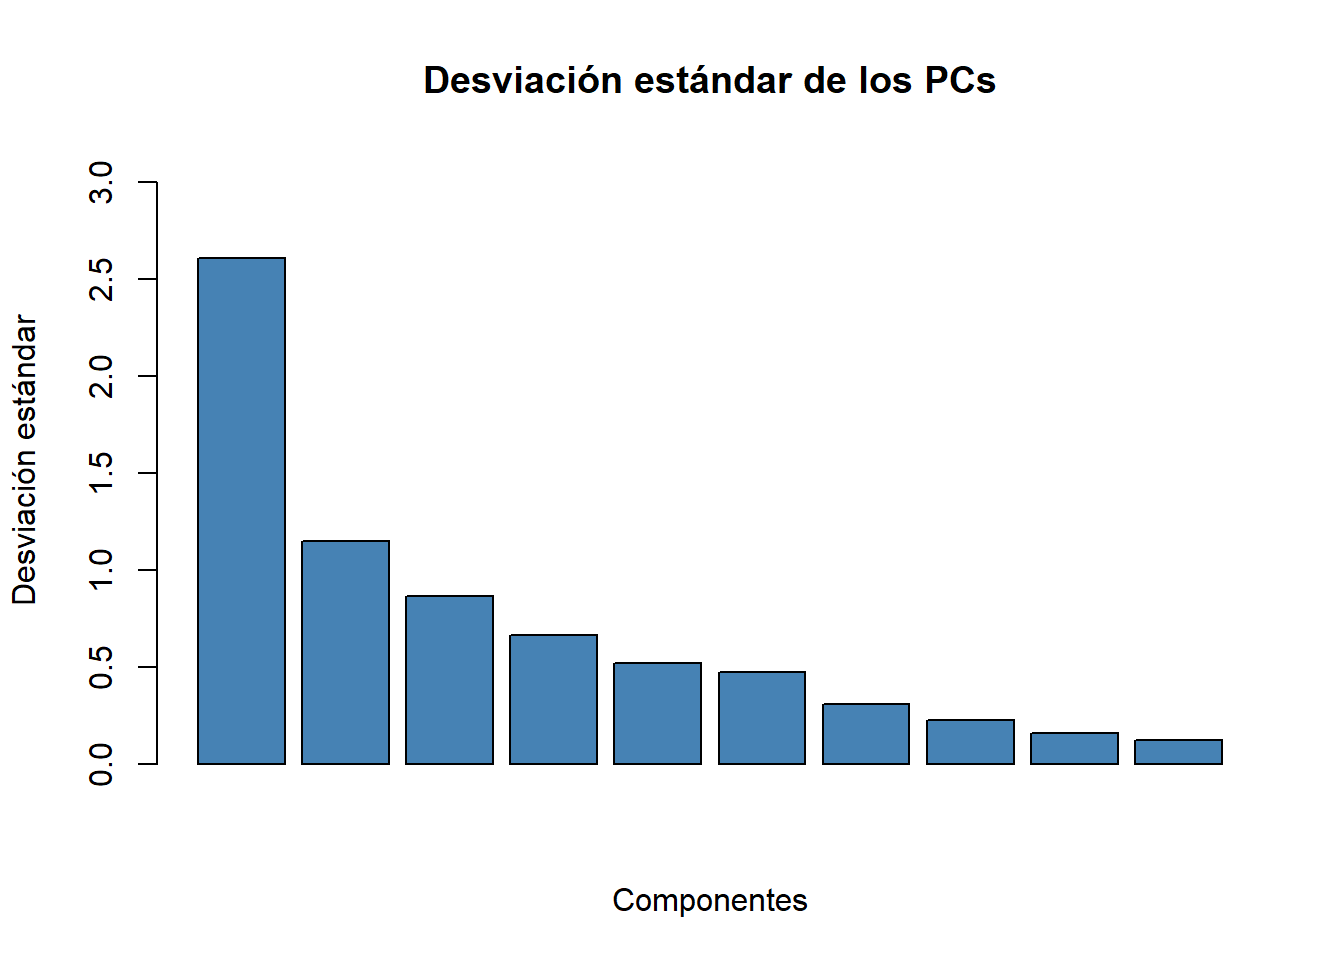
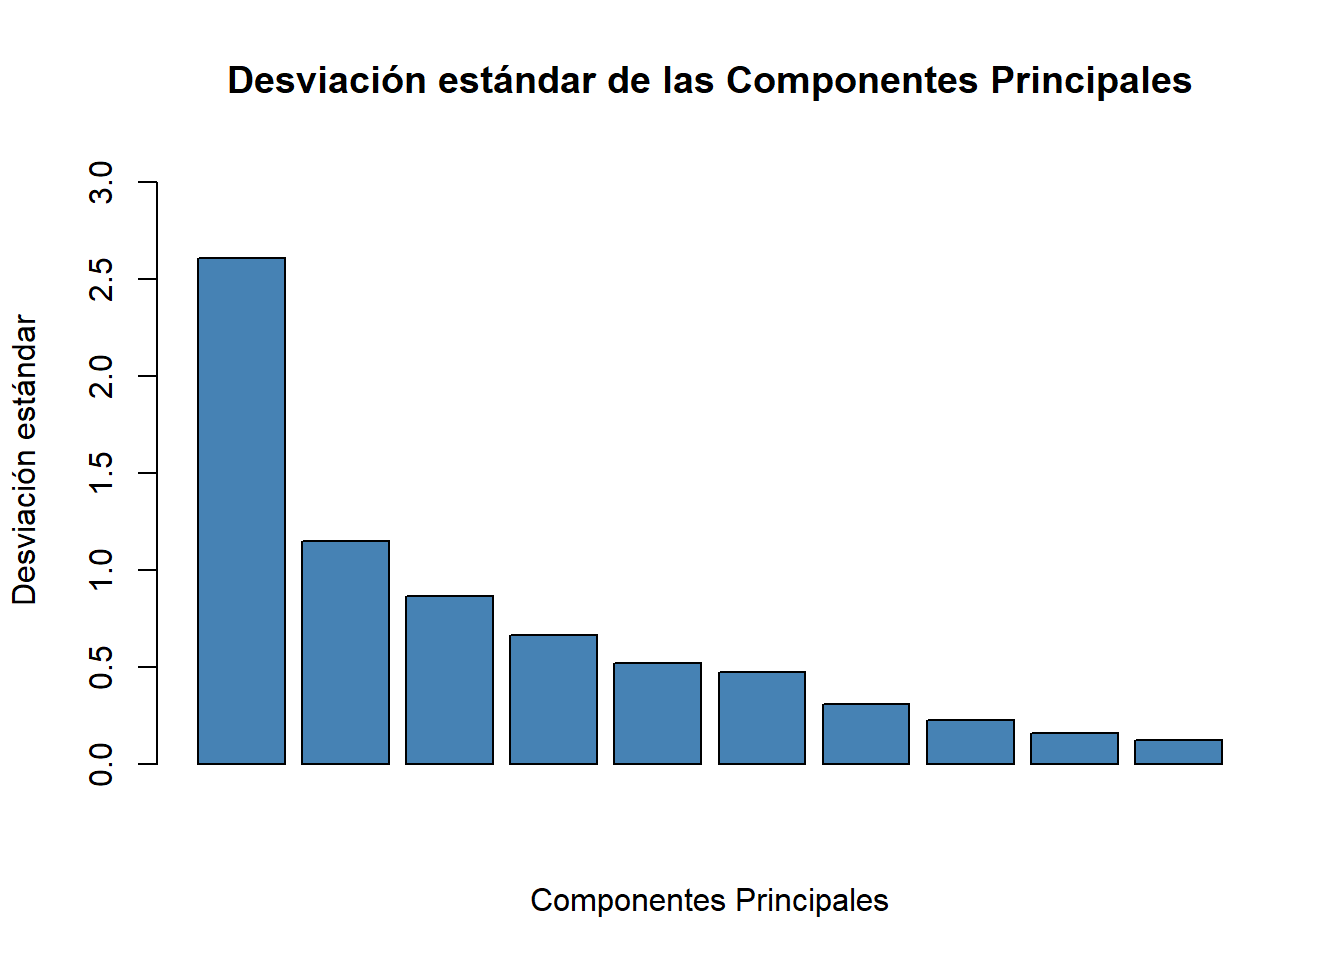
conclusion

Changed region(s): [[0.1562, 0.0625, 0.9062, 0.125], [0.4062, 0.9062, 0.6562, 0.9688]]

diff --git a/index.html b/index.html
@@ -92,15 +92,16 @@ pre > code.sourceCode > span > a:first-child::before { text-decoration: underlin
   <li><a href="#variables-cualitativas" id="toc-variables-cualitativas" class="nav-link" data-scroll-target="#variables-cualitativas">Variables cualitativas</a></li>
   <li><a href="#zona" id="toc-zona" class="nav-link" data-scroll-target="#zona">Zona</a></li>
   </ul></li>
-  <li><a href="#análisis-descriptivo." id="toc-análisis-descriptivo." class="nav-link" data-scroll-target="#análisis-descriptivo.">Análisis Descriptivo.</a>
+  <li><a href="#análisis-descriptivo" id="toc-análisis-descriptivo" class="nav-link" data-scroll-target="#análisis-descriptivo"><strong>Análisis Descriptivo</strong></a>
   <ul class="collapse">
-  <li><a href="#tabla." id="toc-tabla." class="nav-link" data-scroll-target="#tabla.">Tabla.</a></li>
-  <li><a href="#matriz-de-dispersión." id="toc-matriz-de-dispersión." class="nav-link" data-scroll-target="#matriz-de-dispersión.">Matriz de Dispersión.</a></li>
-  <li><a href="#boxplots." id="toc-boxplots." class="nav-link" data-scroll-target="#boxplots.">Boxplots.</a></li>
+  <li><a href="#tabla-descriptiva-sobre-las-variables-numéricas" id="toc-tabla-descriptiva-sobre-las-variables-numéricas" class="nav-link" data-scroll-target="#tabla-descriptiva-sobre-las-variables-numéricas">Tabla descriptiva sobre las variables numéricas</a></li>
+  <li><a href="#correlación-entre-variables-distribuciones-y-gráficos-de-dispersión" id="toc-correlación-entre-variables-distribuciones-y-gráficos-de-dispersión" class="nav-link" data-scroll-target="#correlación-entre-variables-distribuciones-y-gráficos-de-dispersión">Correlación entre variables, distribuciones y gráficos de dispersión</a></li>
+  <li><a href="#boxplots-comparativos-entre-las-variables-del-conjunto-de-datos" id="toc-boxplots-comparativos-entre-las-variables-del-conjunto-de-datos" class="nav-link" data-scroll-target="#boxplots-comparativos-entre-las-variables-del-conjunto-de-datos">Boxplots comparativos entre las variables del conjunto de datos</a></li>
   </ul></li>
-  <li><a href="#proporción-de-varianza-explicada-por-cada-pc." id="toc-proporción-de-varianza-explicada-por-cada-pc." class="nav-link" data-scroll-target="#proporción-de-varianza-explicada-por-cada-pc.">Proporción de varianza explicada por cada PC.</a>
+  <li><a href="#análisis-de-componentes-principales-pca" id="toc-análisis-de-componentes-principales-pca" class="nav-link" data-scroll-target="#análisis-de-componentes-principales-pca"><strong>Análisis de Componentes Principales (PCA)</strong></a>
   <ul class="collapse">
-  <li><a href="#matriz-de-cargas." id="toc-matriz-de-cargas." class="nav-link" data-scroll-target="#matriz-de-cargas.">Matriz de Cargas.</a></li>
+  <li><a href="#proporción-de-varianza-explicada-por-cada-componente-principal" id="toc-proporción-de-varianza-explicada-por-cada-componente-principal" class="nav-link" data-scroll-target="#proporción-de-varianza-explicada-por-cada-componente-principal">Proporción de varianza explicada por cada Componente Principal</a></li>
+  <li><a href="#matriz-de-cargas" id="toc-matriz-de-cargas" class="nav-link" data-scroll-target="#matriz-de-cargas">Matriz de Cargas</a></li>
   <li><a href="#datos-transformados.-primeros-registros." id="toc-datos-transformados.-primeros-registros." class="nav-link" data-scroll-target="#datos-transformados.-primeros-registros.">Datos Transformados. Primeros Registros.</a></li>
   <li><a href="#biplot." id="toc-biplot." class="nav-link" data-scroll-target="#biplot.">Biplot.</a></li>
   <li><a href="#gráfico-de-variables." id="toc-gráfico-de-variables." class="nav-link" data-scroll-target="#gráfico-de-variables.">Gráfico de Variables.</a></li>
@@ -164,54 +165,54 @@ pre > code.sourceCode > span > a:first-child::before { text-decoration: underlin
 
 <section id="introducción" class="level2">
 <h2 class="anchored" data-anchor-id="introducción">Introducción</h2>
-<p>Trabajo práctico entregable para la materia “Introducción a Data Mining”.</p>
+<p>Trabajo práctico grupal para la materia “Introducción a Data Mining”: Análisis de Componentes Principales (PCA)</p>
 </section>
 <section id="descripción-del-dataset." class="level2">
 <h2 class="anchored" data-anchor-id="descripción-del-dataset.">Descripción del dataset.</h2>
-<p>Los datos del archivo corresponden a 24 accesiones de quinoa nativa del Noroeste Argentino caracterizadas a través de 10 variables cuantitativas y 8 variables cualitativas.</p>
+<p>Los datos del archivo “quinoa.txt” corresponden a 24 accesiones de quinoa nativa del Noroeste Argentino caracterizadas a través de 10 variables cuantitativas y 8 variables cualitativas.</p>
 <section id="variables-cuantitativas" class="level3">
 <h3 class="anchored" data-anchor-id="variables-cuantitativas">Variables cuantitativas</h3>
 <ol type="1">
-<li><p>DIAMTAL Diámetro del tallo (mm)</p></li>
-<li><p>ALTPL Altura de planta (cm)</p></li>
-<li><p>LONGHO Longitud de la hoja (mm)</p></li>
-<li><p>ANCHOHO Ancho de la hoja (mm)</p></li>
-<li><p>LONGPEC Longitud del peciolo (mm)</p></li>
-<li><p>LONGPAN Longitud de la panoja (cm)</p></li>
-<li><p>LONGGLO Longitud del glomérulo (mm)</p></li>
-<li><p>DSBF Días desde siembra a botón floral (días)</p></li>
-<li><p>DSFL Días desde siembra a floración (días)</p></li>
-<li><p>DSMF Días desde siembra a madurez fisiológica (días)</p></li>
+<li><p><strong>DIAMTAL</strong>: Diámetro del tallo (mm)</p></li>
+<li><p><strong>ALTPL</strong>: Altura de la planta (cm)</p></li>
+<li><p><strong>LONGHO</strong>: Longitud de la hoja (mm)</p></li>
+<li><p><strong>ANCHOHO</strong>: Ancho de la hoja (mm)</p></li>
+<li><p><strong>LONGPEC</strong>: Longitud del peciolo (mm)</p></li>
+<li><p><strong>LONGPAN</strong>: Longitud de la panoja (cm)</p></li>
+<li><p><strong>LONGGLO</strong>: Longitud del glomérulo (mm)</p></li>
+<li><p><strong>DSBF</strong>: Días desde la siembra hasta el botón floral (días)</p></li>
+<li><p><strong>DSFL</strong>: Días desde la siembra hasta la floración (días)</p></li>
+<li><p><strong>DSMF</strong>: Días desde la siembra hasta la madurez fisiológica (días)</p></li>
 </ol>
 </section>
 <section id="variables-cualitativas" class="level3">
 <h3 class="anchored" data-anchor-id="variables-cualitativas">Variables cualitativas</h3>
 <ol type="1">
-<li><p>AX Presencia de axilas: Si – No</p></li>
-<li><p>CEstrias Color de las estrías: amarilla, rojas, purpuras, no (no tiene estrías)</p></li>
-<li><p>CTallo Color del tallo: rojo, púrpura, verde</p></li>
-<li><p>PoRAMA Presencia de ramas Si – No</p></li>
-<li><p>CFA Color de panoja a fin de antesis: Blanca – Púrpura – Gris</p></li>
-<li><p>Cco Color de la panoja a la cosecha: amarilla, blanca, púrpura, marrón</p></li>
-<li><p>TP Tipo de panoja: Diferenciada y terminal – No diferenciada</p></li>
-<li><p>FP Forma de panoja: Glomerulada – Amarantiforme</p></li>
+<li><p><strong>AX</strong>: Presencia de axilas (Si – No)</p></li>
+<li><p><strong>CEstrias</strong>: Color de las estrías (Amarillas – Rojas – Púrpuras – No (no tiene estrías))</p></li>
+<li><p><strong>CTallo</strong>: Color del tallo (Rojo – Púrpura – Verde)</p></li>
+<li><p><strong>PoRAMA</strong>: Presencia de ramas (Si – No)</p></li>
+<li><p><strong>CFA</strong>: Color de la panoja a fin de antesis (Blanca – Púrpura – Gris)</p></li>
+<li><p><strong>Cco</strong>: Color de la panoja a la cosecha (Amarilla – Blanca – Púrpura – Marrón)</p></li>
+<li><p><strong>TP</strong>: Tipo de panoja (Diferenciada y terminal – No diferenciada)</p></li>
+<li><p><strong>FP</strong>: Forma de la panoja (Glomerulada – Amarantiforme)</p></li>
 </ol>
 </section>
 <section id="zona" class="level3">
 <h3 class="anchored" data-anchor-id="zona">Zona</h3>
-<p>Agregamos una columna al dataset llamada “zona” con el dato de origen de los individuos. Los valores pueden ser:</p>
+<p>Se decidió agregar una columna a la base de datos llamada “zona”, para determinar en qué zona se desarrolla cada una de las plantas. Los datos fueron obtenidos de la columna “poblaciones”.</p>
 <ul>
-<li><p>AL Altiplano</p></li>
-<li><p>VA Valles de altura</p></li>
-<li><p>VH Valles húmedos</p></li>
-<li><p>VS Valles secos</p></li>
+<li><p>Altiplano (AL)</p></li>
+<li><p>Valles de Altura (VA)</p></li>
+<li><p>Valles Húmedos (VH)</p></li>
+<li><p>Valles secos (VS)</p></li>
 </ul>
 </section>
 </section>
-<section id="análisis-descriptivo." class="level2">
-<h2 class="anchored" data-anchor-id="análisis-descriptivo.">Análisis Descriptivo.</h2>
-<section id="tabla." class="level3">
-<h3 class="anchored" data-anchor-id="tabla.">Tabla.</h3>
+<section id="análisis-descriptivo" class="level2">
+<h2 class="anchored" data-anchor-id="análisis-descriptivo"><strong>Análisis Descriptivo</strong></h2>
+<section id="tabla-descriptiva-sobre-las-variables-numéricas" class="level3">
+<h3 class="anchored" data-anchor-id="tabla-descriptiva-sobre-las-variables-numéricas">Tabla descriptiva sobre las variables numéricas</h3>
 <div class="cell">
 <div class="cell-output-display">
 <table class="caption-top table table-sm table-striped small">
@@ -431,8 +432,10 @@ pre > code.sourceCode > span > a:first-child::before { text-decoration: underlin
 </div>
 </div>
 </section>
-<section id="matriz-de-dispersión." class="level3">
-<h3 class="anchored" data-anchor-id="matriz-de-dispersión.">Matriz de Dispersión.</h3>
+<section id="correlación-entre-variables-distribuciones-y-gráficos-de-dispersión" class="level3">
+<h3 class="anchored" data-anchor-id="correlación-entre-variables-distribuciones-y-gráficos-de-dispersión">Correlación entre variables, distribuciones y gráficos de dispersión</h3>
+<section id="en-el-gráfico-que-se-presenta-a-continuación-se-puede-ver-la-distribución-de-cada-una-de-las-variables-y-la-correlación-que-hay-entre-ellas." class="level4">
+<h4 class="anchored" data-anchor-id="en-el-gráfico-que-se-presenta-a-continuación-se-puede-ver-la-distribución-de-cada-una-de-las-variables-y-la-correlación-que-hay-entre-ellas.">En el gráfico que se presenta a continuación, se puede ver la distribución de cada una de las variables y la correlación que hay entre ellas.</h4>
 <div class="cell">
 <div class="cell-output-display">
 <div>
@@ -442,10 +445,11 @@ pre > code.sourceCode > span > a:first-child::before { text-decoration: underlin
 </div>
 </div>
 </div>
-<p>Vemos distribuciones poco campanulares y altas correlaciones para algunas de las variables.</p>
+<p>En el gráfico se pueden ver correlaciones altas entre algunas variables y distribuciones poco campanulares.</p>
 </section>
-<section id="boxplots." class="level3">
-<h3 class="anchored" data-anchor-id="boxplots.">Boxplots.</h3>
+</section>
+<section id="boxplots-comparativos-entre-las-variables-del-conjunto-de-datos" class="level3">
+<h3 class="anchored" data-anchor-id="boxplots-comparativos-entre-las-variables-del-conjunto-de-datos">Boxplots comparativos entre las variables del conjunto de datos</h3>
 <div class="cell">
 <div class="cell-output-display">
 <div>
@@ -455,11 +459,13 @@ pre > code.sourceCode > span > a:first-child::before { text-decoration: underlin
 </div>
 </div>
 </div>
-<p>Se observan distribuciones muy distintas.</p>
+<p>En el gráfico se pueden observar distribuciones muy distintas entre las variables. Además, es posible identificar que están en escalas de medida distintas.</p>
 </section>
 </section>
-<section id="proporción-de-varianza-explicada-por-cada-pc." class="level2">
-<h2 class="anchored" data-anchor-id="proporción-de-varianza-explicada-por-cada-pc.">Proporción de varianza explicada por cada PC.</h2>
+<section id="análisis-de-componentes-principales-pca" class="level2">
+<h2 class="anchored" data-anchor-id="análisis-de-componentes-principales-pca"><strong>Análisis de Componentes Principales (PCA)</strong></h2>
+<section id="proporción-de-varianza-explicada-por-cada-componente-principal" class="level3">
+<h3 class="anchored" data-anchor-id="proporción-de-varianza-explicada-por-cada-componente-principal">Proporción de varianza explicada por cada Componente Principal</h3>
 <div class="cell">
 <div class="cell-output-display">
 <table class="table table-striped table-hover table-condensed caption-top table-sm small" data-quarto-postprocess="true">
@@ -523,7 +529,8 @@ pre > code.sourceCode > span > a:first-child::before { text-decoration: underlin
 </table>
 </div>
 </div>
-<p>Tenemos dos componentes con desvío mayor a 1. Las dos primeras componentes explican el 81% de la variabilidad de los datos.</p>
+<p>Se pueden observar dos autovalores con desvío estándar mayores a 1. Además, se observa que las dos primeras componentes principales explican el 81,3% de la variabilidad total de los datos.</p>
+<p>A continuación, se puede observar la misma información obtenida en la tabla anterior, pero de manera gráfica:</p>
 <div class="cell">
 <div class="cell-output-display">
 <div>
@@ -533,8 +540,9 @@ pre > code.sourceCode > span > a:first-child::before { text-decoration: underlin
 </div>
 </div>
 </div>
-<section id="matriz-de-cargas." class="level3">
-<h3 class="anchored" data-anchor-id="matriz-de-cargas.">Matriz de Cargas.</h3>
+</section>
+<section id="matriz-de-cargas" class="level3">
+<h3 class="anchored" data-anchor-id="matriz-de-cargas">Matriz de Cargas</h3>
 <div class="cell">
 <div class="cell-output-display">
 <table class="caption-top table table-sm table-striped small">
